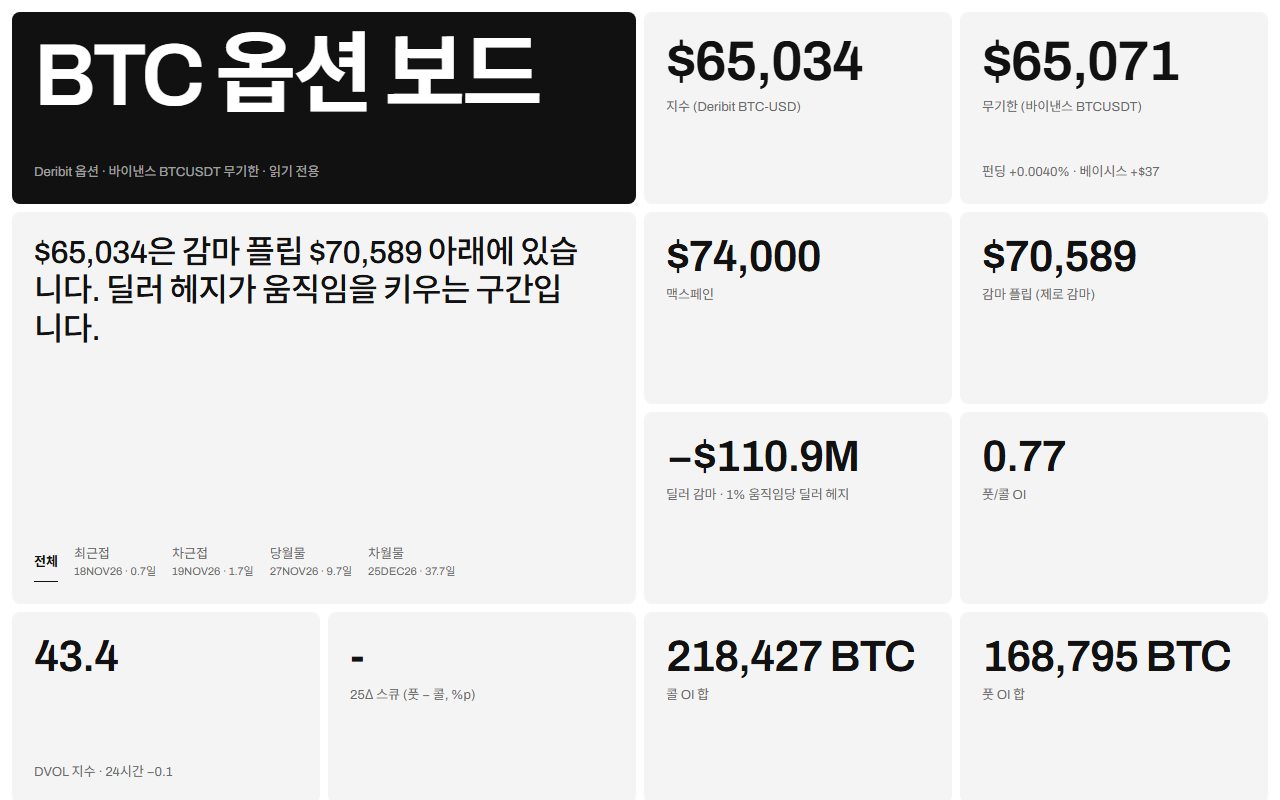
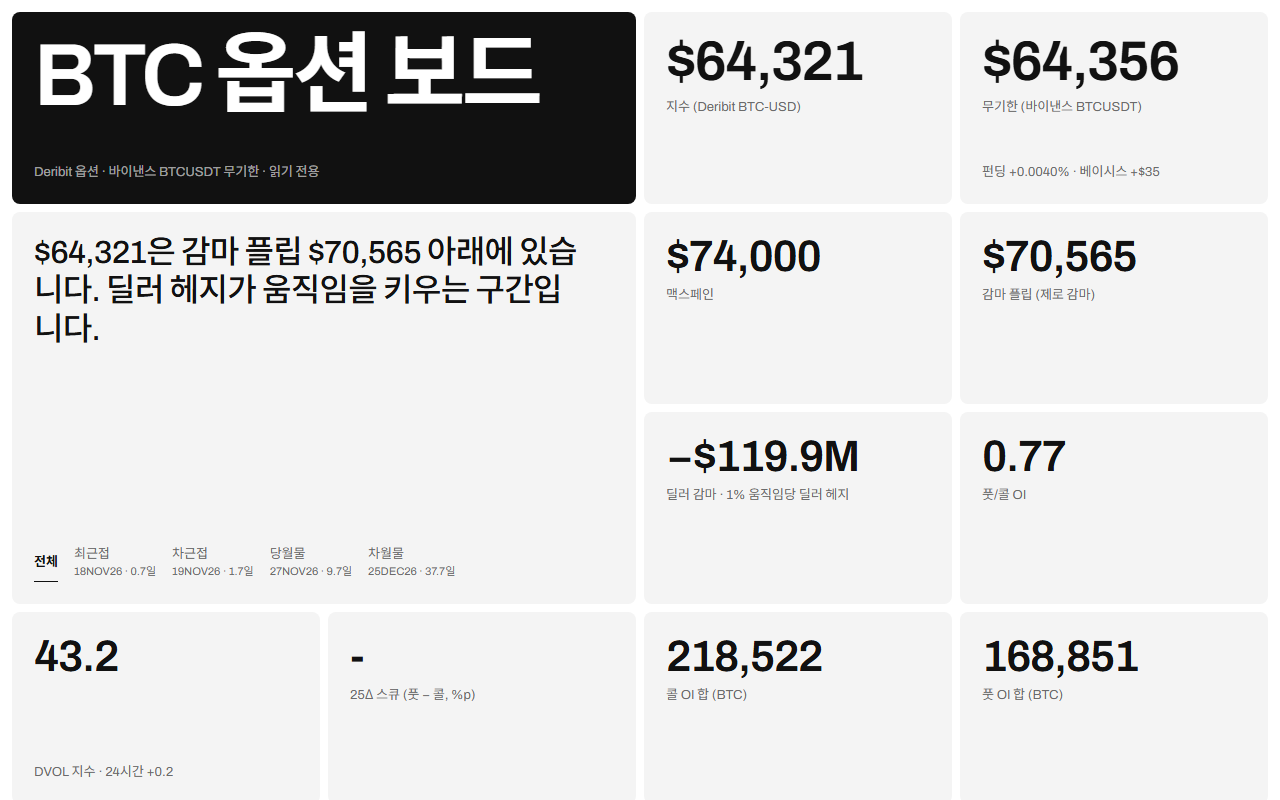
feat(web): BTC 옵션 보드 deployed to Cloudflare Workers; fits mid-width screens
Big numbers and the wordmark scale between 760 and 1200 px so nothing is cut
on laptops and tablets; OI totals drop the " BTC" suffix (it is in the label).
README gives the workers.dev address.

diff --git a/web/btc-options-board/index.html b/web/btc-options-board/index.html
@@ -201,6 +201,12 @@
 
   .neg { font-variant-numeric: tabular-nums; }
 
+  @media (min-width: 760px) and (max-width: 1199px) {
+    .tile.name .wordmark { font-size: clamp(48px, 6.4vw, var(--size-display)); }
+    .metric .num { font-size: clamp(30px, 4.2vw, 56px); }
+    .metric .num.sm { font-size: clamp(26px, 3.4vw, 44px); }
+    .tile.statement p { font-size: clamp(24px, 2.8vw, 34px); }
+  }
   @media (max-width: 759px) {
     .board { grid-template-columns: repeat(2, minmax(0, 1fr)); grid-auto-rows: auto; }
     .tile { min-height: calc(var(--x-row) * 2 + var(--x-gap)); }
@@ -275,11 +281,11 @@
   </div>
   <div class="tile metric c3 r2">
     <div class="num sm" id="callOiNum">불러오는 중…</div>
-    <div class="lbl">콜 OI 합</div>
+    <div class="lbl">콜 OI 합 (BTC)</div>
   </div>
   <div class="tile metric c3 r2">
     <div class="num sm" id="putOiNum">불러오는 중…</div>
-    <div class="lbl">풋 OI 합</div>
+    <div class="lbl">풋 OI 합 (BTC)</div>
   </div>
 
   <!-- 4. tables -->
@@ -407,10 +413,6 @@
     var sign = n < 0 ? '−' : '+';
     var v = Math.abs(n) / 1e6;
     return sign + '$' + v.toLocaleString('en-US', { minimumFractionDigits: 1, maximumFractionDigits: 1 }) + 'M';
-  }
-  function fmtBtc(n) {
-    if (n === null || n === undefined || !isFinite(n)) return '—';
-    return fmtInt(n) + ' BTC';
   }
   function fmtPct2(n) {
     if (n === null || n === undefined || !isFinite(n)) return '—';
@@ -741,8 +743,8 @@
     setText('flipNum', m.flip === null || m.flip === undefined ? '범위 밖' : fmtUsd(m.flip));
     setText('gexNum', m.gex === null ? '—' : fmtMillions(m.gex));
     setText('pcrNum', m.pcr === null ? '—' : m.pcr.toFixed(2));
-    setText('callOiNum', m.callOi ? fmtBtc(m.callOi) : '0 BTC');
-    setText('putOiNum', m.putOi ? fmtBtc(m.putOi) : '0 BTC');
+    setText('callOiNum', fmtInt(m.callOi || 0));
+    setText('putOiNum', fmtInt(m.putOi || 0));
     setText('skewNum', m.skew === null || m.skew === undefined ? '-' : fmtSignedNum(m.skew, 2) + '%p');
 
     // dvol

diff --git a/web/btc-options-board/README.md b/web/btc-options-board/README.md
@@ -11,7 +11,11 @@
 - 계산식은 봇의 `tbot/src/core/options_micro.rs`와 같습니다(텔레그램 `/btcmacross` → 🧰 기타 → 🧮 BTC 옵션 지표).
 - 참고용 정보이며 매매 신호가 아닙니다.
 
-## 보기
+## 주소
+
+https://btc-options-board.btc-options-board.workers.dev
+
+## 로컬에서 보기
 
 `index.html`을 브라우저로 열면 바로 동작합니다(같은 폴더의 `tokens.css` 필요).
 
